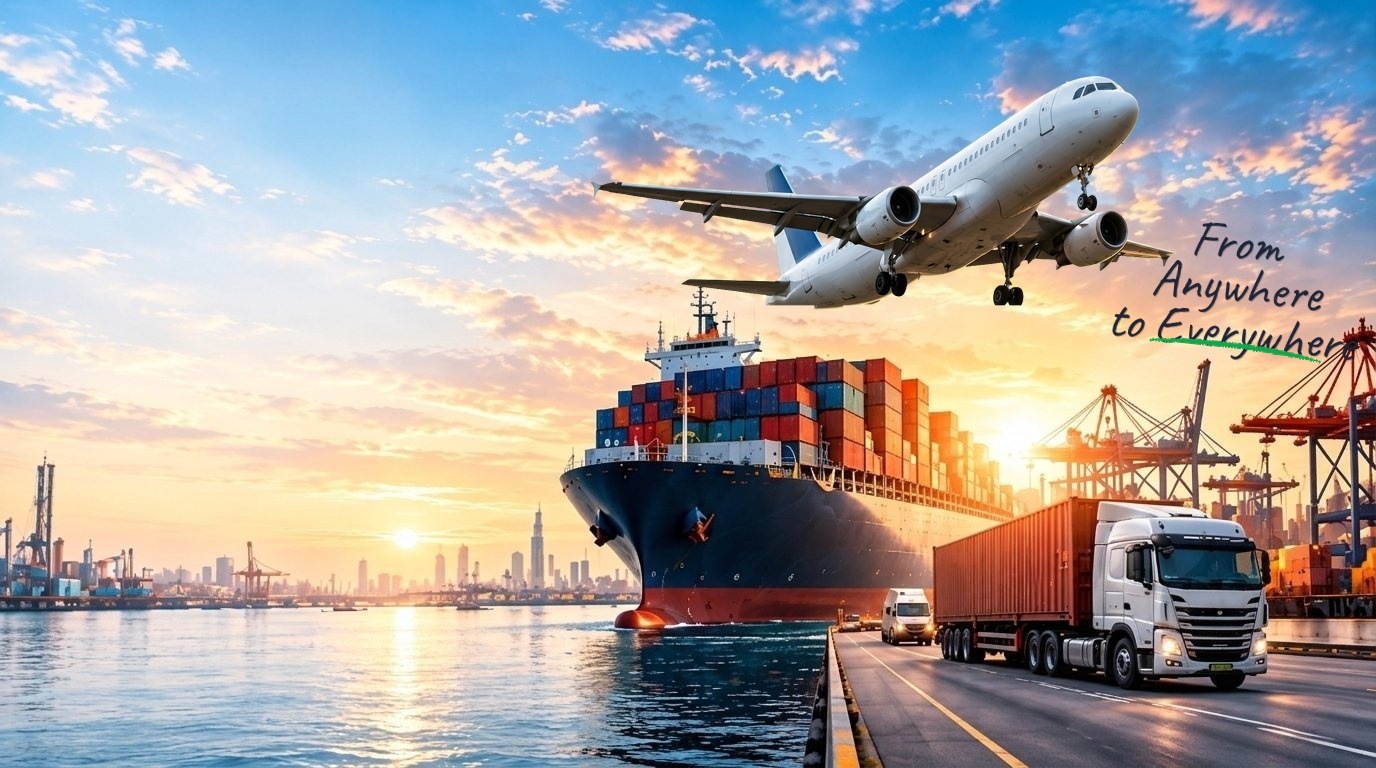
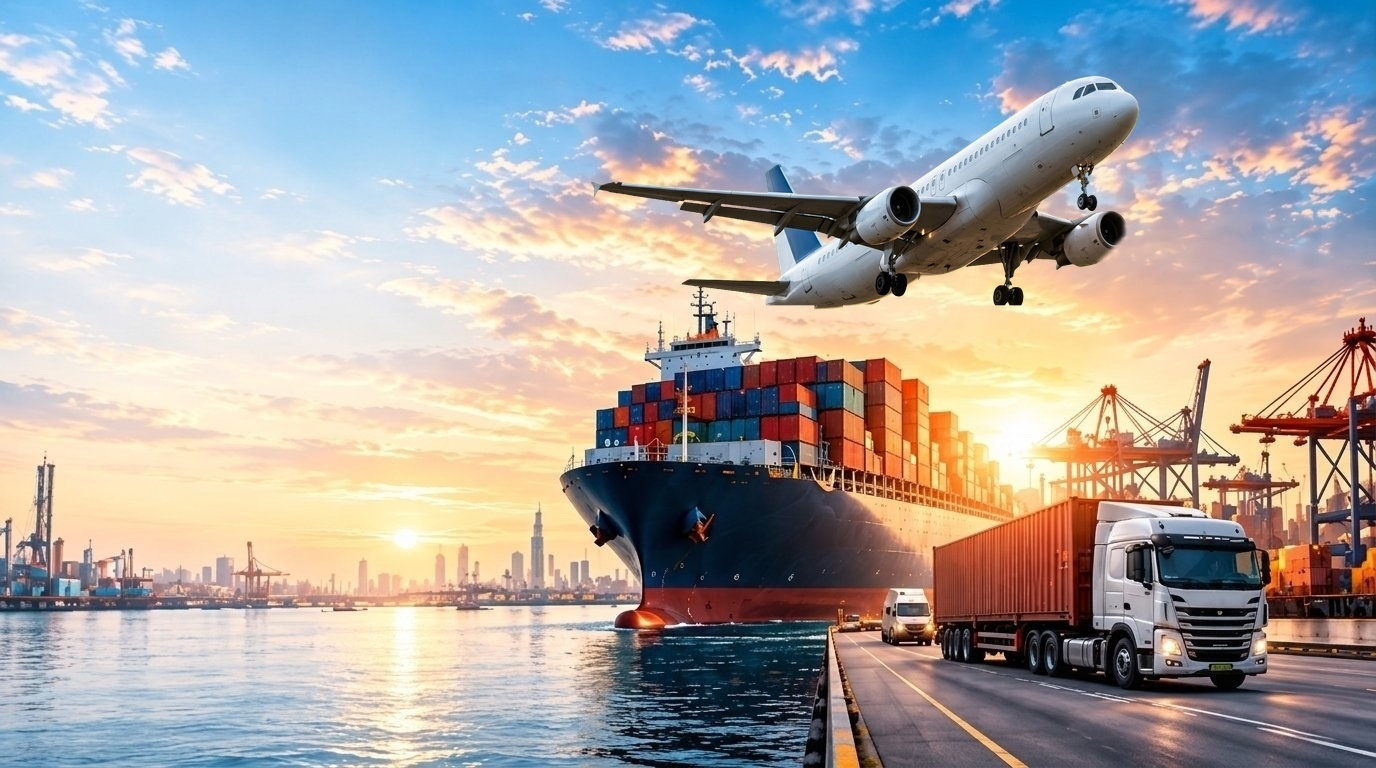
feat(hero,catalog): replace 'From Anywhere to Everywhere' with 'Global Reach' and expand catalogue to 45 products

Changed region(s): [[0.7812, 0.2812, 1.0, 0.4688]]

diff --git a/src/data/individualProducts.ts b/src/data/individualProducts.ts
@@ -1,7 +1,7 @@
 /**
  * ZIYA ZARA TRADING COMPANY
- * Individual Traded Commodities & Products Catalogue
- * Approved luxury studio merchant photography (Antique Brass Uruli & Dark Wood Display)
+ * Comprehensive Export Commodity & Traded Products Catalogue
+ * International trade grades with verified HSN codes, specifications & origin sourcing
  */
 
 export interface IndividualProduct {
@@ -81,7 +81,7 @@ export const individualProducts: IndividualProduct[] = [
   },
 
   // ==========================================
-  // 2. PULSES & DALS (Approved Studio Shots)
+  // 2. PULSES & DALS
   // ==========================================
   {
     id: "toor-dal",
@@ -113,9 +113,49 @@ export const individualProducts: IndividualProduct[] = [
     specs: "Football & Regular Split | Polished / Unpolished",
     origin: "Madhya Pradesh & UP, India"
   },
+  {
+    id: "yellow-moong-dal",
+    name: "Yellow Moong Dal (Split Mung)",
+    category: "Pulses & Dals",
+    categorySlug: "pulses-and-dals",
+    hsnCode: "07133100",
+    image: "/images/products/pulse_moong_dal.jpg",
+    specs: "Dehulled Split | Bright Yellow | 99.5% Purity",
+    origin: "Rajasthan & Madhya Pradesh, India"
+  },
+  {
+    id: "urad-dal",
+    name: "Urad Dal (Black Matpe Split & Gota)",
+    category: "Pulses & Dals",
+    categorySlug: "pulses-and-dals",
+    hsnCode: "07133100",
+    image: "/images/products/pulse_urad_dal.jpg",
+    specs: "White Gota / Split with Skin | Premium Grade",
+    origin: "Andhra Pradesh & Myanmar Corridor"
+  },
+  {
+    id: "green-moong-whole",
+    name: "Green Moong Whole (Whole Green Gram)",
+    category: "Pulses & Dals",
+    categorySlug: "pulses-and-dals",
+    hsnCode: "07133100",
+    image: "/images/products/pulse_green_moong.jpg",
+    specs: "Bold Machine Cleaned | High Germination",
+    origin: "Maharashtra & Karnataka, India"
+  },
+  {
+    id: "chana-dal",
+    name: "Chana Dal (Bengal Gram Split)",
+    category: "Pulses & Dals",
+    categorySlug: "pulses-and-dals",
+    hsnCode: "07132000",
+    image: "/images/products/pulse_chana_dal.jpg",
+    specs: "Machine Cleaned | Sweet Taste | Low Moisture",
+    origin: "Madhya Pradesh, India"
+  },
 
   // ==========================================
-  // 3. SPICES & CONDIMENTS (Approved Studio Shots)
+  // 3. SPICES & CONDIMENTS
   // ==========================================
   {
     id: "alleppey-turmeric",
@@ -157,9 +197,39 @@ export const individualProducts: IndividualProduct[] = [
     specs: "Stemless & With Stem | Heat: 60,000 - 80,000 SHU",
     origin: "Guntur, Andhra Pradesh, India"
   },
+  {
+    id: "cumin-seeds",
+    name: "Cumin Seeds (Jeera Whole)",
+    category: "Spices & Condiments",
+    categorySlug: "spices-and-condiments",
+    hsnCode: "09093129",
+    image: "/images/products/spice_cumin.jpg",
+    specs: "Singapore / Europe 99% Sortex Quality | High Volatile Oil",
+    origin: "Gujarat & Rajasthan, India"
+  },
+  {
+    id: "coriander-seeds",
+    name: "Coriander Seeds (Dhania Whole)",
+    category: "Spices & Condiments",
+    categorySlug: "spices-and-condiments",
+    hsnCode: "09092190",
+    image: "/images/products/spice_coriander.jpg",
+    specs: "Eagle & Scooter Grades | Greenish-Golden | Cleaned",
+    origin: "Madhya Pradesh & Rajasthan, India"
+  },
+  {
+    id: "whole-cloves",
+    name: "Whole Aromatic Cloves",
+    category: "Spices & Condiments",
+    categorySlug: "spices-and-condiments",
+    hsnCode: "09071000",
+    image: "/images/products/spice_cloves.jpg",
+    specs: "Lal Pari Quality | High Eugenol | Hand Picked",
+    origin: "Tamil Nadu & Kerala, India"
+  },
 
   // ==========================================
-  // 4. AGRICULTURAL GRAINS (Approved Studio Shots)
+  // 4. AGRICULTURAL GRAINS & MILLETS
   // ==========================================
   {
     id: "milling-wheat-grains",
@@ -170,5 +240,261 @@ export const individualProducts: IndividualProduct[] = [
     image: "/images/products/milling_wheat.jpg",
     specs: "Protein: 11.5% - 13.5% | Moisture < 12%",
     origin: "Madhya Pradesh & Punjab, India"
+  },
+  {
+    id: "finger-millet-ragi",
+    name: "Finger Millet (Ragi Whole)",
+    category: "Millets & Superfoods",
+    categorySlug: "millets-and-superfoods",
+    hsnCode: "10082100",
+    image: "/images/products/millet_ragi.jpg",
+    specs: "Machine Cleaned | Rich in Calcium | 100% Gluten Free",
+    origin: "Karnataka & Tamil Nadu, India"
+  },
+  {
+    id: "pearl-millet-bajra",
+    name: "Pearl Millet (Bajra Grains)",
+    category: "Millets & Superfoods",
+    categorySlug: "millets-and-superfoods",
+    hsnCode: "10082100",
+    image: "/images/products/millet_bajra.jpg",
+    specs: "Dryland Harvested | High Iron | Export Cleaned",
+    origin: "Rajasthan & Gujarat, India"
+  },
+  {
+    id: "sorghum-jowar",
+    name: "White Sorghum (Jowar Grains)",
+    category: "Millets & Superfoods",
+    categorySlug: "millets-and-superfoods",
+    hsnCode: "10079000",
+    image: "/images/products/millet_jowar.jpg",
+    specs: "Plump White Grains | Low Moisture | Dehulled",
+    origin: "Maharashtra & Karnataka, India"
+  },
+  {
+    id: "foxtail-millet",
+    name: "Foxtail Millet (Thinai)",
+    category: "Millets & Superfoods",
+    categorySlug: "millets-and-superfoods",
+    hsnCode: "10082900",
+    image: "/images/products/millet_foxtail.jpg",
+    specs: "Dehulled Golden Grain | High Dietary Fiber",
+    origin: "Andhra Pradesh & Tamil Nadu, India"
+  },
+
+  // ==========================================
+  // 5. FRESH FRUITS
+  // ==========================================
+  {
+    id: "cavendish-bananas",
+    name: "Fresh Cavendish Bananas (G9)",
+    category: "Fresh Fruits",
+    categorySlug: "fresh-fruits",
+    hsnCode: "08039010",
+    image: "/images/products/fruit_bananas.jpg",
+    specs: "Calibration 39-46mm | Length 18-22cm | Sea Reefer",
+    origin: "Theni & Jalgaon, India"
+  },
+  {
+    id: "fresh-pomegranates",
+    name: "Fresh Pomegranates (Bhagwa Grade A)",
+    category: "Fresh Fruits",
+    categorySlug: "fresh-fruits",
+    hsnCode: "08109010",
+    image: "/images/products/fruit_pomegranates.jpg",
+    specs: "Deep Red Arils | 250g - 350g+ | TSS 15-16%",
+    origin: "Solapur, Maharashtra, India"
+  },
+  {
+    id: "indian-mangoes",
+    name: "Alphonso & Kesar Mangoes",
+    category: "Fresh Fruits",
+    categorySlug: "fresh-fruits",
+    hsnCode: "08045020",
+    image: "/images/products/fruit_mangoes.jpg",
+    specs: "Hot Water & Irradiation Certified | Air Cargo",
+    origin: "Ratnagiri & Gujarat, India"
+  },
+  {
+    id: "fresh-table-grapes",
+    name: "Fresh Table Grapes (Thomson Seedless)",
+    category: "Fresh Fruits",
+    categorySlug: "fresh-fruits",
+    hsnCode: "08061000",
+    image: "/images/products/fruit_grapes.jpg",
+    specs: "Berry Size 16-18mm+ | Brix 16%+ | Cold Chain Monitored",
+    origin: "Nashik Belt, Maharashtra, India"
+  },
+  {
+    id: "fresh-coconuts",
+    name: "Semi-Husked Fresh Mature Coconuts",
+    category: "Fresh Fruits",
+    categorySlug: "fresh-fruits",
+    hsnCode: "08011910",
+    image: "/images/products/fruit_coconuts.jpg",
+    specs: "Weight 550g - 650g | Thick Meat | High Water",
+    origin: "Pollachi & Coastal Tamil Nadu, India"
+  },
+
+  // ==========================================
+  // 6. FRESH VEGETABLES
+  // ==========================================
+  {
+    id: "fresh-red-onions",
+    name: "Fresh Red Onions (Nashik Quality)",
+    category: "Fresh Vegetables",
+    categorySlug: "fresh-vegetables",
+    hsnCode: "07031010",
+    image: "/images/products/veg_red_onions.jpg",
+    specs: "Size 45mm - 55mm / 55mm+ | Strong Pungency",
+    origin: "Nashik, Maharashtra, India"
+  },
+  {
+    id: "fresh-tomatoes",
+    name: "Fresh Field Tomatoes",
+    category: "Fresh Vegetables",
+    categorySlug: "fresh-vegetables",
+    hsnCode: "07020000",
+    image: "/images/products/veg_tomatoes.jpg",
+    specs: "Firm Red | Calibration 50-70mm | Export Packed",
+    origin: "Karnataka & Tamil Nadu, India"
+  },
+  {
+    id: "fresh-potatoes",
+    name: "Fresh Table & Processing Potatoes",
+    category: "Fresh Vegetables",
+    categorySlug: "fresh-vegetables",
+    hsnCode: "07019000",
+    image: "/images/products/veg_potatoes.jpg",
+    specs: "Jyoti & LR Varieties | 45mm+ Sorted | Low Sugar",
+    origin: "Gujarat & UP, India"
+  },
+  {
+    id: "fresh-ginger",
+    name: "Fresh Ginger Roots (Shimoga Quality)",
+    category: "Fresh Vegetables",
+    categorySlug: "fresh-vegetables",
+    hsnCode: "07099910",
+    image: "/images/products/veg_ginger.jpg",
+    specs: "Washed & Cleaned | High Fiber | Plump Fingers",
+    origin: "Karnataka & Kerala, India"
+  },
+  {
+    id: "fresh-garlic",
+    name: "Fresh Garlic Bulbs",
+    category: "Fresh Vegetables",
+    categorySlug: "fresh-vegetables",
+    hsnCode: "07032000",
+    image: "/images/products/veg_garlic.jpg",
+    specs: "Size 40mm - 50mm | White Cloves | Mesh Sacks",
+    origin: "Madhya Pradesh & Gujarat, India"
+  },
+  {
+    id: "fresh-green-chillies",
+    name: "Fresh Green Chillies (G4)",
+    category: "Fresh Vegetables",
+    categorySlug: "fresh-vegetables",
+    hsnCode: "07096010",
+    image: "/images/products/veg_green_chillies.jpg",
+    specs: "Length 8-12cm | High Pungency | Air Shipped",
+    origin: "Andhra Pradesh & Gujarat, India"
+  },
+  {
+    id: "fresh-curry-leaves",
+    name: "Fresh Aromatic Curry Leaves",
+    category: "Fresh Vegetables",
+    categorySlug: "fresh-vegetables",
+    hsnCode: "07099990",
+    image: "/images/products/veg_curry_leaves.jpg",
+    specs: "Tender Green | Strong Volatile Aroma | Air Freight",
+    origin: "Tamil Nadu, India"
+  },
+
+  // ==========================================
+  // 7. BANANA LEAVES & ECO PRODUCTS
+  // ==========================================
+  {
+    id: "fresh-banana-leaves",
+    name: "Fresh Cut Banana Leaves",
+    category: "Banana Leaves & Eco",
+    categorySlug: "banana-leaves-and-eco",
+    hsnCode: "14049090",
+    image: "/images/products/leaf_banana_fresh.jpg",
+    specs: "Natural Green | Unblemished | Daily Air Shipments",
+    origin: "Tamil Nadu River Basins, India"
+  },
+  {
+    id: "vacuum-banana-leaves",
+    name: "Vacuum Packed Banana Leaves",
+    category: "Banana Leaves & Eco",
+    categorySlug: "banana-leaves-and-eco",
+    hsnCode: "14049090",
+    image: "/images/products/leaf_banana_vacuum.jpg",
+    specs: "Extended Shelf Life | Pre-Sanitized & Cut",
+    origin: "Certified Agro-Processing Facility"
+  },
+  {
+    id: "banana-leaf-rolls",
+    name: "Banana Leaf Dining Rolls & Strips",
+    category: "Banana Leaves & Eco",
+    categorySlug: "banana-leaves-and-eco",
+    hsnCode: "14049090",
+    image: "/images/products/leaf_banana_rolls.jpg",
+    specs: "Uniform Width | Restaurant & Catering Ready",
+    origin: "Tamil Nadu, India"
+  },
+
+  // ==========================================
+  // 8. FROZEN FOODS & READY TO COOK
+  // ==========================================
+  {
+    id: "frozen-sweet-corn",
+    name: "IQF Frozen Sweet Corn Kernels",
+    category: "Frozen Foods",
+    categorySlug: "frozen-foods",
+    hsnCode: "07104000",
+    image: "/images/products/frozen_sweet_corn.jpg",
+    specs: "Individually Quick Frozen (-18°C) | Sweet & Crisp",
+    origin: "Maharashtra, India"
+  },
+  {
+    id: "frozen-green-peas",
+    name: "IQF Frozen Green Peas",
+    category: "Frozen Foods",
+    categorySlug: "frozen-foods",
+    hsnCode: "07102100",
+    image: "/images/products/frozen_green_peas.jpg",
+    specs: "Tender Sweet Peas | Uniform Calibration | Grade A",
+    origin: "Punjab & UP, India"
+  },
+  {
+    id: "frozen-mixed-vegetables",
+    name: "IQF Frozen Mixed Vegetables",
+    category: "Frozen Foods",
+    categorySlug: "frozen-foods",
+    hsnCode: "07109000",
+    image: "/images/products/frozen_mixed_veg.jpg",
+    specs: "Carrot, Peas, Beans & Sweet Corn | Balanced Ratio",
+    origin: "Certified Cold-Chain Plant"
+  },
+  {
+    id: "frozen-grated-coconut",
+    name: "Frozen Fresh Grated Coconut",
+    category: "Frozen Foods",
+    categorySlug: "frozen-foods",
+    hsnCode: "08011990",
+    image: "/images/products/frozen_grated_coconut.jpg",
+    specs: "100% Pure Coconut Meat | No Preservatives | IQF",
+    origin: "Pollachi, Tamil Nadu, India"
+  },
+  {
+    id: "frozen-samosas",
+    name: "Frozen Cocktail Samosas",
+    category: "Frozen Foods",
+    categorySlug: "frozen-foods",
+    hsnCode: "19059090",
+    image: "/images/products/frozen_samosas.jpg",
+    specs: "Spiced Potato & Pea Filling | Ready to Fry | HORECA",
+    origin: "FSSAI / Halal / BRC Certified Facility"
   }
 ];
